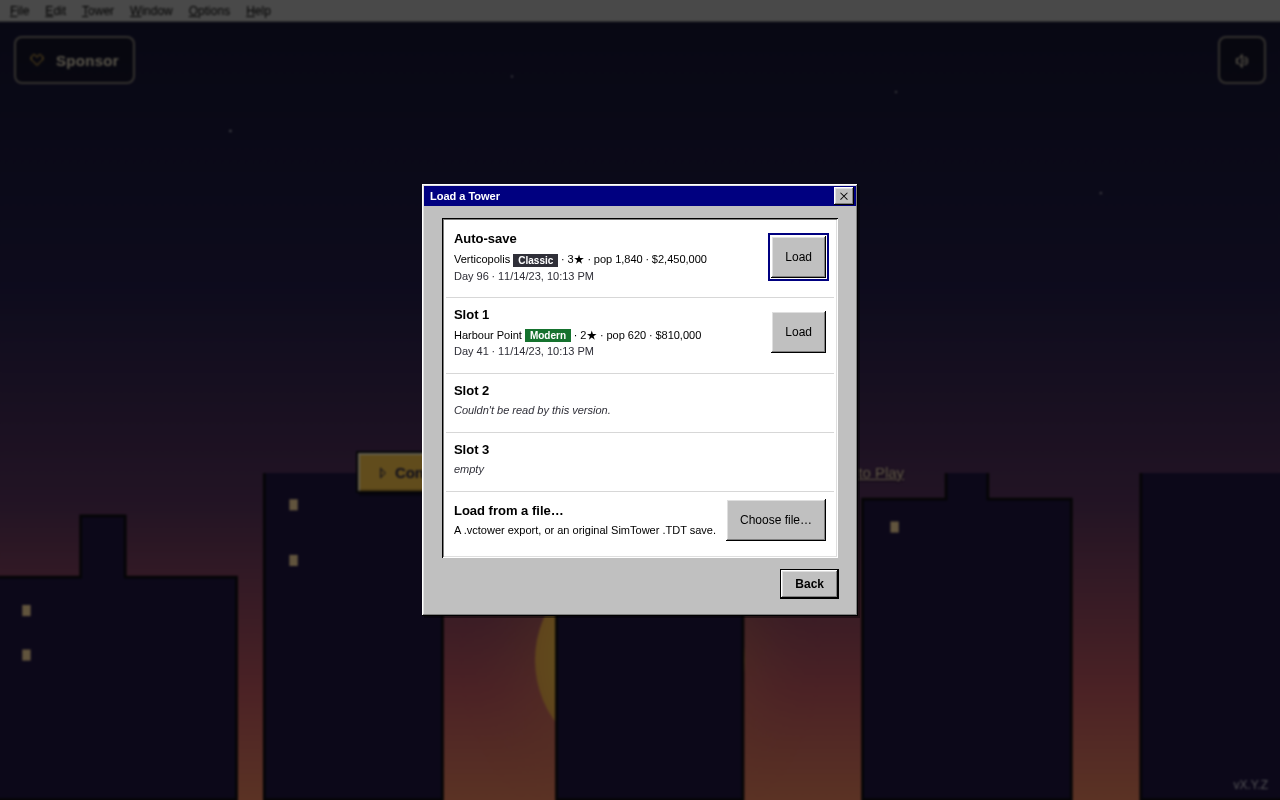
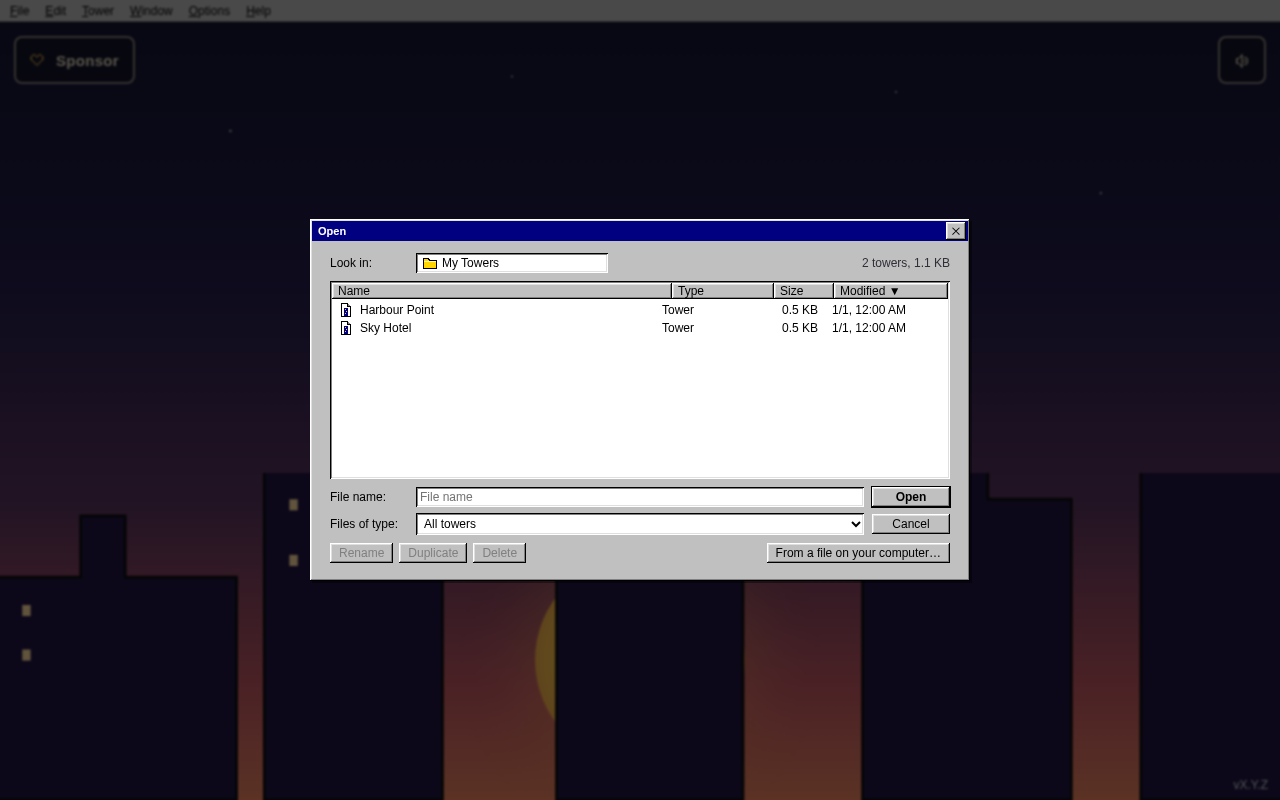
Show the Open window in the gallery and redraw the saving page's card
Rendered in the pinned Playwright image.

Claude-Session: https://claude.ai/code/session_01Ms7traNLWiXFbFoq6kWKFU

Changed region(s): [[0.2188, 0.2188, 0.7812, 0.7812]]

diff --git a/scripts/scenes/returningPlayerPage.ts b/scripts/scenes/returningPlayerPage.ts
@@ -36,12 +36,15 @@ export async function pgShowReturningSplash(page: Page): Promise<void> {
  * still between runs. The scene's browser profile is its own, so nothing
  * carries into another scene.
  */
-export async function pgShowOpenWindow(page: Page): Promise<void> {
+export async function pgShowOpenWindow(page: Page, viaMenu = false): Promise<void> {
   await page.evaluate(async () => {
     const g = (window as unknown as { game?: any }).game;
     await g.saveFile("Harbour Point");
     await g.saveFile("Sky Hotel");
   });
-  await page.keyboard.press("Control+o");
+  // Ctrl+O waits while a dialog is open; the menu item replaces it, as a
+  // click on File > Open… over Settings does.
+  if (viaMenu) await page.evaluate(() => document.getElementById("mb-import")?.click());
+  else await page.keyboard.press("Control+o");
   await page.waitForSelector("#modal .fd", { timeout: 4000 });
 }

diff --git a/scripts/scenes/showcase.ts b/scripts/scenes/showcase.ts
@@ -102,7 +102,8 @@ export const SHOWCASE_SCENES: Scene[] = [
           // Quick-save first so the window shows the Auto-save row above the
           // My Towers files.
           await page.evaluate(() => document.getElementById("btn-save-top")?.click());
-          await pgShowOpenWindow(page);
+          // The Settings shot before this one leaves its window open.
+          await pgShowOpenWindow(page, true);
         },
         wait: 300,
       },
